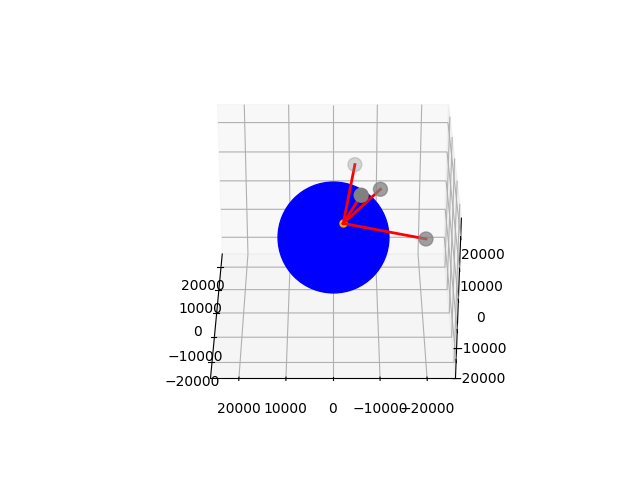
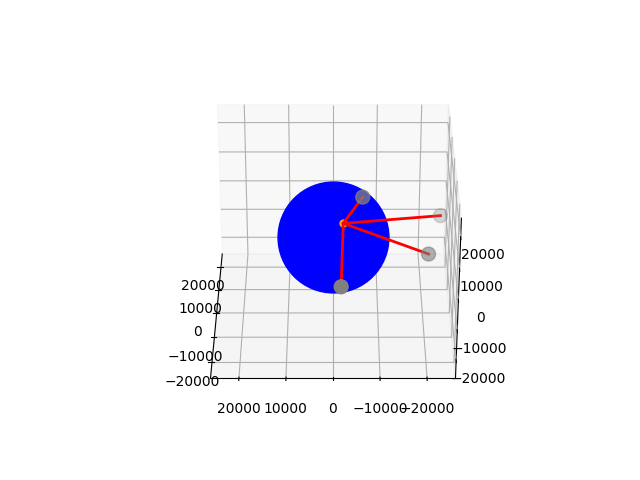
sma breyting á skiptingu

Changed region(s): [[0.5, 0.3125, 0.7188, 0.625]]

diff --git a/test_fixture.py b/test_fixture.py
@@ -1,19 +1,18 @@
 import math
 import numpy as np
-from typing import Callable
 from Satelite import SateliteConnection, SateliteSystem, DynamicSystem
 from Methods import angle_to_coordinates
 import pandas as pd
 
 class TestGps:
 
-    def __init__(self, receiver, d = 0.0001):
+    def __init__(self, receiver, div_phi = math.pi/2, div_theta = math.pi/2, d = 0.0001):
         self.receiver: tuple[float] = receiver
         self.d = d
 
-        self.__quadrant_phi = math.floor(receiver[0]/(math.pi/2))
-        self.__quadrant_theta = math.floor(receiver[1]/(math.pi/2))
-        self.__initial_guess = ((self.__quadrant_phi+0.5)*math.pi/2, (self.__quadrant_theta+0.5)*math.pi/2)
+        self.__quadrant_phi = math.floor(receiver[0]/div_phi)
+        self.__quadrant_theta = math.floor(receiver[1]/div_theta)
+        self.__initial_guess = ((self.__quadrant_phi+0.5)*div_phi, (self.__quadrant_theta+0.5)*div_theta)
 
     def get_receiver_pos(self) -> tuple[float]:
         return np.array(angle_to_coordinates(
@@ -55,7 +54,7 @@ def run_tests(angles: list[tuple[float]], phi_diff, theta_diff, n_sat, iters: in
     df = pd.DataFrame(index=angles, columns=["min_pos_error", "avg_pos_error", "max_pos_error", "condition_number"])
     df.index.name = "receiver_angle"
     for x in angles:
-        test = TestGps(x)
+        test = TestGps(x, phi_diff, theta_diff)
         guess = test.get_initial_guess()
         if random:
             ds = DynamicSystem(test.get_random_satelites(phi_diff, theta_diff, n=n_sat))

diff --git a/d5.py b/d5.py
@@ -18,7 +18,7 @@ if __name__ == '__main__':
     print(tabulate(df_lin, tablefmt="latex", floatfmt=".2f"))
 
 
-    test = TestGps((2,1))
+    test = TestGps((2,1), math.pi/80, math.pi/20)
     guess = test.get_initial_guess()
     ds = DynamicSystem(test.get_random_satelites(math.pi/80, math.pi/20, n=4))
     pos = ds.solve_GN(guess)

diff --git a/d6.py b/d6.py
@@ -17,7 +17,7 @@ if __name__ == '__main__':
     print(tabulate(df_rand, tablefmt="latex", floatfmt=".2f"))
 
 
-    test = TestGps((2,1))
+    test = TestGps((2,1), math.pi/4, math.pi/4)
     guess = test.get_initial_guess()
     ds = DynamicSystem(test.get_random_satelites(math.pi/4, math.pi/4, n=8))
     pos = ds.solve_GN(guess)
